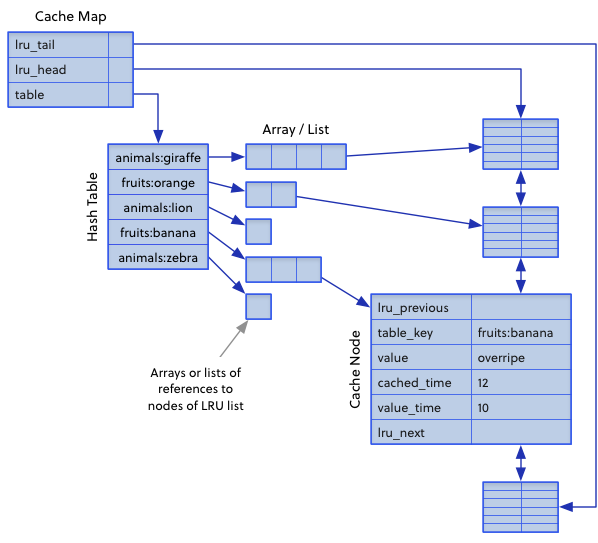
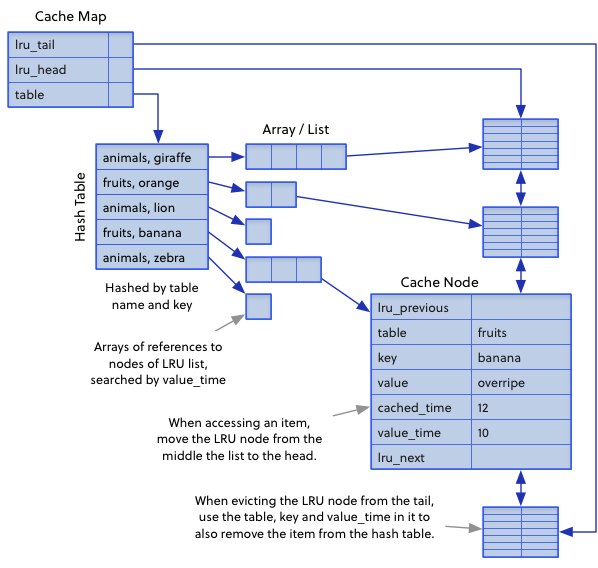
Further clarify the client design document.

Changed region(s): [[0.1204, 0.1768, 1.0, 1.0], [0.0, 0.0, 0.8729, 0.2063], [0.2107, 0.0589, 1.0, 0.0884]]

diff --git a/client/DESIGN.md b/client/DESIGN.md
@@ -6,8 +6,9 @@ Caches store key-value pairs retrieved from the server, as well as the associate
 
 Transactions allow users to locally perform a sequence of database operations, and then optimistically commit the result to the server by writing through the cache.
 
-Caches and Transactions mediate between client operations and HTTP requests.
+Caches and Transactions mediate between client operations and HTTP requests. They compose several other components, illustrated briefly here and explained in detail throughout this document.
 
+![Client and proxy caches.](img/overview.png)
 
 ## Background
 
@@ -343,7 +344,7 @@ We propose two possible designs for implementing the cache; the preferable of th
 
 The cache may be a doubly-linked list of entries, plus a hash table of arrays (or lists) of those entries.
 
-In Python, the hashtable is a standard Python dictionary. The `table:key` keys are composed by concatenating the table name and key.  Each `table:key` maps to an array of references to nodes in the LRU list. And each node of the LRU list contains the value, its timestamps and the LRU’s previous and next pointers.
+In Python, the hashtable is a standard Python dictionary. The `table:key` keys are composed by concatenating the table name and key.  Each `table:key` maps to an array of references to nodes in the LRU list. Each node of the LRU list contains the table, key, value, its timestamps and the LRU’s previous and next pointers. Note that the value may be None to indicate that there is no value for duration.
 
 To `get` an item as of a given `read_time`, we lookup the array for `table:key`, and then we search that list for the *most recent* `value_time` on or before the given `read_time`. We return the tuple `(value_time, cached_time, JSON value)`
 
@@ -351,14 +352,11 @@ To `put` an item with a given `value_time`, we lookup the array for `table:key`,
 
 If the arrays (or lists) are unsorted, then `add` is *O*(1), and `find` (floor), `replace`, and `remove` are each *O*(n).  If the lists are sorted, then all the operations are *O*(n). We expect the most frequent operations to be `find`, `replace` and `remove`; sorting would not improve the asymptotic runtimes of these operations. Furthermore, we expect the lists to be small, so the effort of sorting would be moot.
 
-#### Skiplist of Tuples
+#### Skiplist
 
-If a skiplist that supports floor and ceiling operations is available, then the cache can be implemented using it. The cache is a skiplist of tuples:
+![Client and proxy caches.](img/skiplist.png)
 
-    // (table, key, (Long.Max - value_time)) -> (cached_time, value)
-    (string, string, long) -> (TxClock, JSON)
-
-Each `(table, key, reverse_time)` maps to a tuple of `(cached_time, value)`. The skiplist is effectively sorted in reverse chronological order. Note that the value may be None to indicate that there is no value for duration.
+If a skiplist that supports floor and ceiling operations is available, then the cache can be implemented using it. Each `(table, key, reverse_time)` maps to a node in the LRU list. Each node of the LRU list contains the table, key, value, its timestamps and the LRU’s previous and next pointers. The skiplist is effectively sorted in reverse chronological order. Note that the value may be None to indicate that there is no value for duration.
 
 To `get` an item as of a given `read_time`, we lookup the *ceiling* entry for `(table, key, (Long.Max - read_time))`, and then we return the tuple `(value_time, cached_time, JSON value)`.
 
@@ -392,7 +390,7 @@ These max\_age and no\_cache values also appear in cache read method, though use
 
     write (
         condition_time: TxClock,
-        ops_map: (table, key) -> (op, value)
+        tx_view: (table, key) -> (op, value)
     ): TxClock, throws StaleException
 
 The write method sends the [transaction’s view](#tx-view) to the DB server as a conditional batch write. If the server accepts the batch write, the write method also updates the cache to reflect the newly written values. Otherwise, the write method throws a stale exception, including the value timestamp in the DB that caused the write reject if it is available.
@@ -458,7 +456,7 @@ Since the max\_age is at most `read_timestamp - max_vt` for all values read so f
 <a name="tx-view"></a>
 ### view
 
-The view maintains the map of operations performed throughout the transaction.  This map has type (table, key) -> (op, value).  When the user commits the transaction, the view is handed to the cache, which writes the changes through to the DB server via batch write. If the view's entries are out-of-date with the DB, write will throw a StaleException.
+The view maintains the map of operations performed throughout the transaction.  This map has type `(table, key) -> (op, value)`.  When the user commits the transaction, the view is handed to the cache, which writes the changes through to the DB server via batch write. If the view's entries are out-of-date with the DB, write will throw a StaleException.
 
 Every value read from the cache during the transaction is stored in this map, including values that do not change within the transaction; those are stored in the view with the *hold* operation, as we explain below.
 
